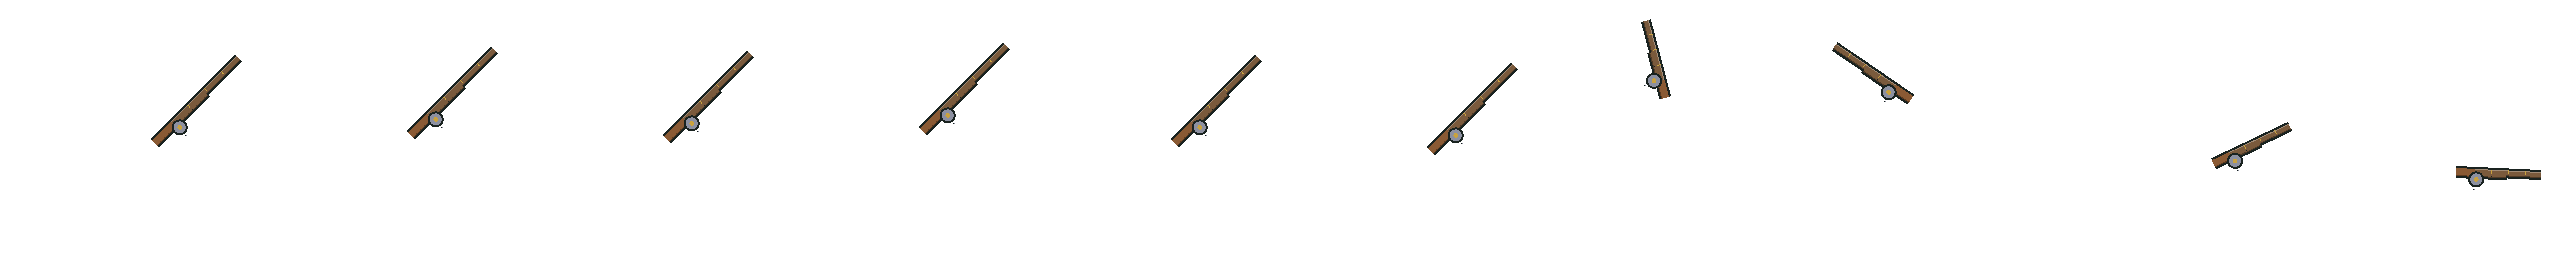
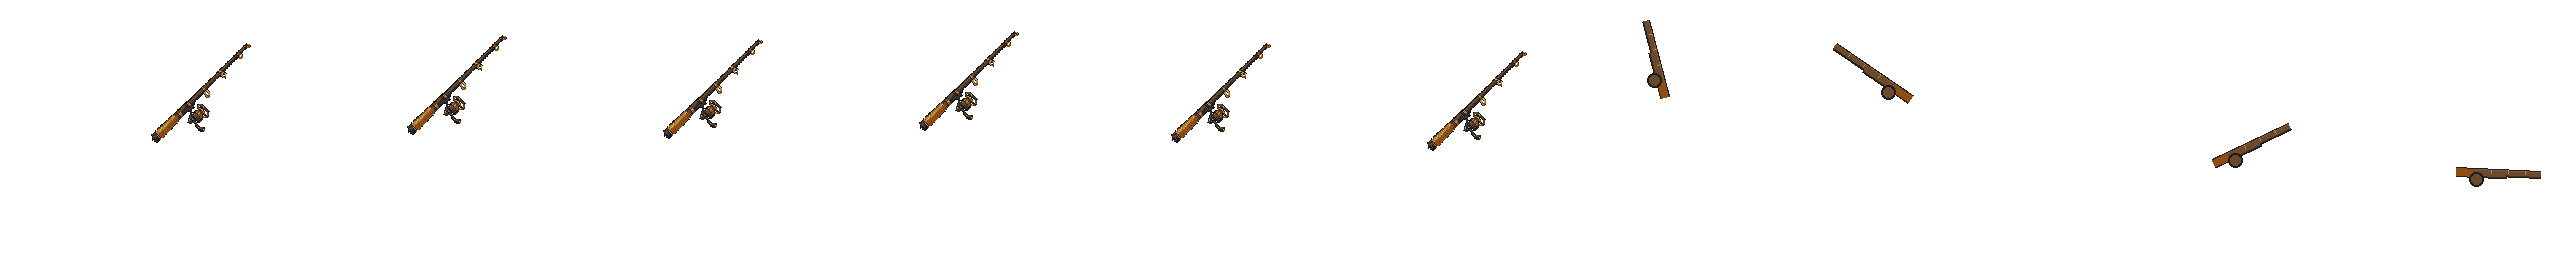
Rute aus gezeichneter Vorlage, 1:1 in den Ruheposen

diff --git a/tools/import_rod.py b/tools/import_rod.py
@@ -1,186 +1,188 @@
 #!/usr/bin/env python3
-"""Setzt eine gezeichnete Rute in alle Posen ein.
+"""Baut die Rutenblaetter aus der gezeichneten Vorlage.
 
-ZURZEIT NICHT IM EINSATZ. Die Rute im Spiel kommt aus
-`gen_sprites.gd::_rod`, weil das Drehen eines fertigen Pixelbildes in zehn
-Winkel es entweder verwaschen (weiche Abtastung) oder ausgefranst (harte
-Abtastung) macht -- gerechnet ist jeder Pixel gesetzt statt abgetastet.
+Die Rute kommt aus `assets/source/rod_45.png` -- einem 100x100-Sprite, das
+diagonal von unten links (Korkgriff) nach oben rechts (Spitze) laeuft.
 
-Dieses Werkzeug bleibt fuer den Tag, an dem es je Pose ein eigenes
-gezeichnetes Bild gibt; dann faellt das Drehen weg.
+Die sechs RUHEPOSEN bekommen dieses Bild **eins zu eins**: die Vorlage ist
+genau so lang wie die Rute im Spiel, es wird nichts skaliert und nichts
+gedreht. Die vier WURFPOSEN zeigen in andere Richtungen; die werden in
+denselben Farben nachgezeichnet. Ein fertiges Pixelbild in einen anderen
+Winkel zu drehen macht es verwaschen oder ausgefranst -- drei Anlaeufe,
+alle verworfen.
 
-Die Rute ist EIN Bild. Fuer jede der zehn Posen liest dieses Werkzeug Griff
-und Spitze aus `core/angler_pose.gd` -- dieselbe Quelle, aus der das Spiel
-die Schnur ansetzt -- dreht die Rute in den passenden Winkel, skaliert sie
-auf die passende Laenge und legt sie in das Blatt.
-
-    python3 tools/import_rod.py rute_roh.png
-
-Gedreht wird im GROSSEN Bild und erst danach verkleinert: ein fertiges
-Pixelbild zu drehen zerreisst die Kanten.
+    python3 tools/import_rod.py
 """
 import math
 import os
 import re
-import sys
 
 from PIL import Image
 
 ROOT = os.path.dirname(os.path.dirname(os.path.abspath(__file__)))
 POSE = os.path.join(ROOT, "core", "angler_pose.gd")
+SOURCE = os.path.join(ROOT, "assets", "source", "rod_45.png")
 OUT = os.path.join(ROOT, "assets", "art")
-FRAME = 64
-## Dieselben drei Ruten wie bisher: Bambus, Eiche, Silber.
-ROD_TONES = ["a5825a", "4a3626", "b9c3c8"]
 
-def read_vectors(name):
-    """Liest eine Vector2i-Liste aus der Pose-Datei."""
+## Die drei Varianten faerben nur den Schaft um. Kork und Messing bleiben --
+## eine Silberrute mit silbernem Griff waere ein Barren, keine Rute.
+SHAFT_TONES = [None, "6b4a2c", "b9c3c8"]
+
+def read_ints(name):
+    head = "const %s: Array[Vector2i] = [" % name
     text = open(POSE, encoding="utf-8").read()
-    block = text.split("const %s: Array[Vector2i] = [" % name)[1].split("]")[0]
-    return [(int(a), int(b)) for a, b in re.findall(r"Vector2i\((-?\d+),\s*(-?\d+)\)", block)]
+    i = text.index(head) + len(head)
+    j = text.index("]", i)
+    return [(int(a), int(b)) for a, b in
+            re.findall(r"Vector2i\((-?\d+),\s*(-?\d+)\)", text[i:j])]
 
-def principal_angle(img):
-    """In welche Richtung die Rute im Rohbild zeigt.
+def read_int(name):
+    text = open(POSE, encoding="utf-8").read()
+    return int(re.search(r"const %s: int = (\d+)" % name, text).group(1))
 
-    Ueber die Hauptachse der sichtbaren Pixel und nicht ueber die Ecken der
-    Bounding-Box: eine waagerechte Rute mit dicker Rolle hat eine Box, deren
-    Diagonale in eine ganz andere Richtung zeigt als die Rute selbst.
+def classify(img):
+    """Teilt die Palette der Vorlage in Kork, Messing, Umriss und Schaft.
+
+    Ueber Farbton und Helligkeit statt ueber eine Liste: die Vorlage kann
+    neu erzeugt werden, ohne dass hier Werte nachgetragen werden muessen.
     """
     px = img.load()
-    pts = [(x, y) for y in range(img.size[1]) for x in range(img.size[0])
-           if px[x, y][3] > 0]
-    n = len(pts)
-    mx = sum(p[0] for p in pts) / n
-    my = sum(p[1] for p in pts) / n
-    sxx = sum((p[0] - mx) ** 2 for p in pts) / n
-    syy = sum((p[1] - my) ** 2 for p in pts) / n
-    sxy = sum((p[0] - mx) * (p[1] - my) for p in pts) / n
-    # Groesster Eigenvektor der Kovarianzmatrix.
-    angle = 0.5 * math.atan2(2.0 * sxy, sxx - syy)
-    return math.degrees(-angle)
-
-def tip_is_right(img, angle):
-    """Zeigt die duenne Spitze nach rechts? Sonst muss das Bild gespiegelt
-    werden -- der Griff gehoert immer an den Anker."""
-    rot = img.rotate(-angle, resample=Image.BICUBIC, expand=True)
-    rot = rot.crop(rot.getbbox())
-    px = rot.load()
-    w, h = rot.size
-    def mass(x0, x1):
-        return sum(1 for y in range(h) for x in range(x0, x1) if px[x, y][3] > 0)
-    return mass(0, max(1, w // 3)) > mass(w - max(1, w // 3), w)
-
-def harden(img, keep_alpha=110):
-    """Macht aus weichen Kanten wieder Pixelart.
-
-    Drehen und Verkleinern erzeugen halbe Transparenz -- im Bild sieht das
-    verwaschen aus. Also: Alpha auf ganz oder gar nicht. Die FARBEN bleiben,
-    wie sie sind; sie zusaetzlich zu quantisieren zerlegte die Rute in
-    Streifen, weil benachbarte Toene in verschiedene Faecher fielen.
-    """
-    px = img.load()
+    groups = {"cork": [], "brass": [], "outline": [], "shaft": []}
     for y in range(img.size[1]):
         for x in range(img.size[0]):
             r, g, b, a = px[x, y]
-            px[x, y] = (0, 0, 0, 0) if a < keep_alpha else (r, g, b, 255)
-    return img
-
-def thicken(img, angle):
-    """Verdickt die Rute quer zu ihrer Achse.
-
-    Auf 30 Pixel Laenge bleibt von einer Rute sonst ein Haar uebrig: sie
-    ist im Rohbild funf Pixel stark, nach dem Verkleinern noch einer.
-    """
-    rad = math.radians(-angle)
-    step = (round(-math.sin(rad)), round(math.cos(rad)))
-    if step == (0, 0):
-        step = (0, 1)
-    grown = Image.new("RGBA", (img.size[0] + abs(step[0]), img.size[1] + abs(step[1])),
-                      (0, 0, 0, 0))
-    grown.alpha_composite(img, (max(0, step[0]), max(0, step[1])))
-    grown.alpha_composite(img, (max(0, -step[0]), max(0, -step[1])))
-    return grown
-
-def outline(img, color=(26, 35, 32)):
-    """Dunkle Kante -- die gezeichnete Figur hat ueberall eine."""
-    w, h = img.size
-    grown = Image.new("RGBA", (w + 2, h + 2), (0, 0, 0, 0))
-    grown.alpha_composite(img, (1, 1))
-    src = grown.copy().load()
-    dst = grown.load()
-    for y in range(h + 2):
-        for x in range(w + 2):
-            if src[x, y][3] > 0:
+            if a == 0:
                 continue
-            for dx, dy in ((1, 0), (-1, 0), (0, 1), (0, -1)):
-                nx, ny = x + dx, y + dy
-                if 0 <= nx < w + 2 and 0 <= ny < h + 2 and src[nx, ny][3] > 0:
-                    dst[x, y] = color + (255,)
-                    break
-    return grown
+            lum = 0.299 * r + 0.587 * g + 0.114 * b
+            warm = r - b
+            if lum < 45:
+                groups["outline"].append((r, g, b))
+            elif warm > 55 and lum < 120:
+                groups["cork"].append((r, g, b))
+            elif warm > 45:
+                groups["brass"].append((r, g, b))
+            else:
+                groups["shaft"].append((r, g, b))
+    return groups
 
-## Nur der echte Umriss bleibt schwarz. Bei der Kleidung liegt die Grenze
-## hoeher, dort ist Dunkles Stoff -- bei der Rute ist Dunkles der Schaft.
-DARK_KEEP = 0.09
+def grip_of(img):
+    """Das Griffende der Vorlage: der Punkt, der auf der Rutenachse am
+    weitesten unten links liegt."""
+    px = img.load()
+    best, low = (0, img.size[1] - 1), None
+    for y in range(img.size[1]):
+        for x in range(img.size[0]):
+            if px[x, y][3] == 0:
+                continue
+            if low is None or x - y < low:
+                low, best = x - y, (x, y)
+    return best
+
+def average(colors, fallback):
+    if not colors:
+        return fallback
+    n = len(colors)
+    return tuple(sum(c[i] for c in colors) // n for i in range(3))
 
 def tint(pixel, target):
     r, g, b, a = pixel
-    luma = (0.299 * r + 0.587 * g + 0.114 * b) / 255.0
-    if luma < DARK_KEEP:
-        return pixel
-    f = 0.55 + 0.9 * luma
+    lum = (0.299 * r + 0.587 * g + 0.114 * b) / 255.0
+    f = 0.55 + 0.9 * lum
     return (min(255, int(target[0] * f)), min(255, int(target[1] * f)),
             min(255, int(target[2] * f)), a)
 
+def is_shaft(pixel):
+    r, g, b, a = pixel
+    lum = 0.299 * r + 0.587 * g + 0.114 * b
+    return a > 0 and lum >= 45 and (r - b) <= 45
+
+def draw_cast(sheet, frame, anchor, tip, size, tones):
+    """Zeichnet die Rute fuer eine Wurfpose -- Pixel fuer Pixel."""
+    ox = frame * size
+    a = complex(*anchor)
+    b = complex(anchor[0] + tip[0], anchor[1] + tip[1])
+    direction = (b - a) / abs(b - a)
+    down = complex(-direction.imag, direction.real)
+    if down.imag < 0:
+        down = -down
+    length = abs(b - a)
+    px = sheet.load()
+
+    def put(p, color):
+        x, y = int(round(p.real)), int(round(p.imag))
+        if 0 <= x < size and 0 <= y < size:
+            px[ox + x, y] = color + (255,)
+
+    steps = int(length * 3)
+    for i in range(steps + 1):
+        t = i / steps
+        p = a + (b - a) * t
+        thick = 8 if t < 0.6 else 6
+        for k in range(thick):
+            q = p + down * k
+            if t < 0.20:
+                put(q, tones["cork"])
+            elif k == 0:
+                put(q, tones["shine"])
+            elif k == thick - 1:
+                put(q, tones["shadow"])
+            else:
+                put(q, tones["shaft"])
+        put(p - down, tones["outline"])
+        put(p + down * thick, tones["outline"])
+    for r in (0.42, 0.62, 0.82):
+        p = a + (b - a) * r
+        for k in range(4):
+            put(p + down * k, tones["brass"])
+    reel = a + (b - a) * 0.24 + down * 10
+    for dy in range(-7, 8):
+        for dx in range(-7, 8):
+            d = math.hypot(dx, dy)
+            if d <= 7.5:
+                put(reel + complex(dx, dy),
+                    tones["outline"] if d > 5.5 else tones["shaft"])
+
 def main():
-    if len(sys.argv) < 2:
-        sys.exit(__doc__)
-    raw = Image.open(sys.argv[1]).convert("RGBA")
-    box = raw.getbbox()
-    if box is None:
-        sys.exit("das Bild ist leer -- erst mit import_prop.py freistellen")
-    raw = raw.crop(box)
-    raw_angle = principal_angle(raw)
+    rod = Image.open(SOURCE).convert("RGBA")
+    size = read_int("FRAME_SIZE")
+    frames = read_int("FRAMES")
+    idle = read_int("IDLE_FRAMES")
+    anchors = read_ints("ROD_ANCHOR")
+    tips = read_ints("ROD_TIP_OFF")
+    groups = classify(rod)
+    base = {
+        "cork": average(groups["cork"], (140, 90, 50)),
+        "brass": average(groups["brass"], (200, 160, 70)),
+        "outline": average(groups["outline"], (16, 16, 20)),
+        "shaft": average(groups["shaft"], (70, 76, 86)),
+    }
 
-    if not tip_is_right(raw, raw_angle):
-        raw = raw.transpose(Image.FLIP_LEFT_RIGHT)
-        raw_angle = -raw_angle
-
-    anchors = read_vectors("ROD_ANCHOR")
-    tips = read_vectors("ROD_TIP_OFF")
-    if len(anchors) != len(tips):
-        sys.exit("Griffe und Spitzen zaehlen verschieden")
-
-    for variant, tone in enumerate(ROD_TONES):
-        sheet = Image.new("RGBA", (FRAME * len(anchors), FRAME), (0, 0, 0, 0))
-        for f, (anchor, tip) in enumerate(zip(anchors, tips)):
-            length = math.hypot(tip[0], tip[1])
-            # Bildkoordinaten zeigen nach unten, Winkel nach oben.
-            want = math.degrees(math.atan2(-tip[1], tip[0]))
-            # Erst vierfach vergroessern, dann drehen, dann auf Groesse
-            # bringen: eine Drehung auf dem kleinen Bild zerreisst die
-            # Kanten, eine auf dem grossen laesst sich sauber zurueckrechnen.
-            big = raw.resize((raw.size[0] * 4, raw.size[1] * 4), Image.NEAREST)
-            rod = big.rotate(want - raw_angle, resample=Image.BICUBIC, expand=True)
-            rod = rod.crop(rod.getbbox())
-            scale = length / math.hypot(*rod.size)
-            rod = rod.resize((max(1, round(rod.size[0] * scale)),
-                              max(1, round(rod.size[1] * scale))), Image.BOX)
-            # Nicht mehr verdicken: die Rohrute ist schon drei Pixel stark.
-            rod = outline(harden(rod))
-            if tone:
-                target = tuple(int(tone[i:i + 2], 16) for i in (0, 2, 4))
-                px = rod.load()
-                for y in range(rod.size[1]):
-                    for x in range(rod.size[0]):
-                        if px[x, y][3] > 0:
-                            px[x, y] = tint(px[x, y], target)
-            # Der Griff der gedrehten Rute ist die Ecke, die zum Anker zeigt.
-            gx = anchor[0] - (0 if tip[0] >= 0 else rod.size[0] - 1)
-            gy = anchor[1] - (0 if tip[1] >= 0 else rod.size[1] - 1)
-            sheet.alpha_composite(rod, (f * FRAME + gx, gy))
+    for variant, tone in enumerate(SHAFT_TONES):
+        target = tuple(int(tone[i:i + 2], 16) for i in (0, 2, 4)) if tone else None
+        sheet = Image.new("RGBA", (size * frames, size), (0, 0, 0, 0))
+        art = rod.copy()
+        if target:
+            px = art.load()
+            for y in range(art.size[1]):
+                for x in range(art.size[0]):
+                    if is_shaft(px[x, y]):
+                        px[x, y] = tint(px[x, y], target)
+        # Ruheposen: die Vorlage sitzt mit ihrem GRIFF auf dem Ankerpunkt --
+        # nicht mit ihrer Bildecke. Die Rolle steht unten aus dem Bild
+        # heraus, die Ecke liegt also woanders als das Griffende.
+        gx, gy = grip_of(art)
+        for f in range(idle):
+            ax, ay = anchors[f]
+            sheet.alpha_composite(art, (f * size + ax - gx, ay - gy))
+        tones = dict(base)
+        if target:
+            tones["shaft"] = target
+        tones["shine"] = tuple(min(255, int(c * 1.25)) for c in tones["shaft"])
+        tones["shadow"] = tuple(int(c * 0.6) for c in tones["shaft"])
+        for f in range(idle, frames):
+            draw_cast(sheet, f, anchors[f], tips[f], size, tones)
         sheet.save(os.path.join(OUT, "char_rod_%d.png" % variant))
-    print("%d Rutenblaetter geschrieben" % len(ROD_TONES))
+    print("%d Rutenblaetter geschrieben" % len(SHAFT_TONES))
 
 if __name__ == "__main__":
     main()
